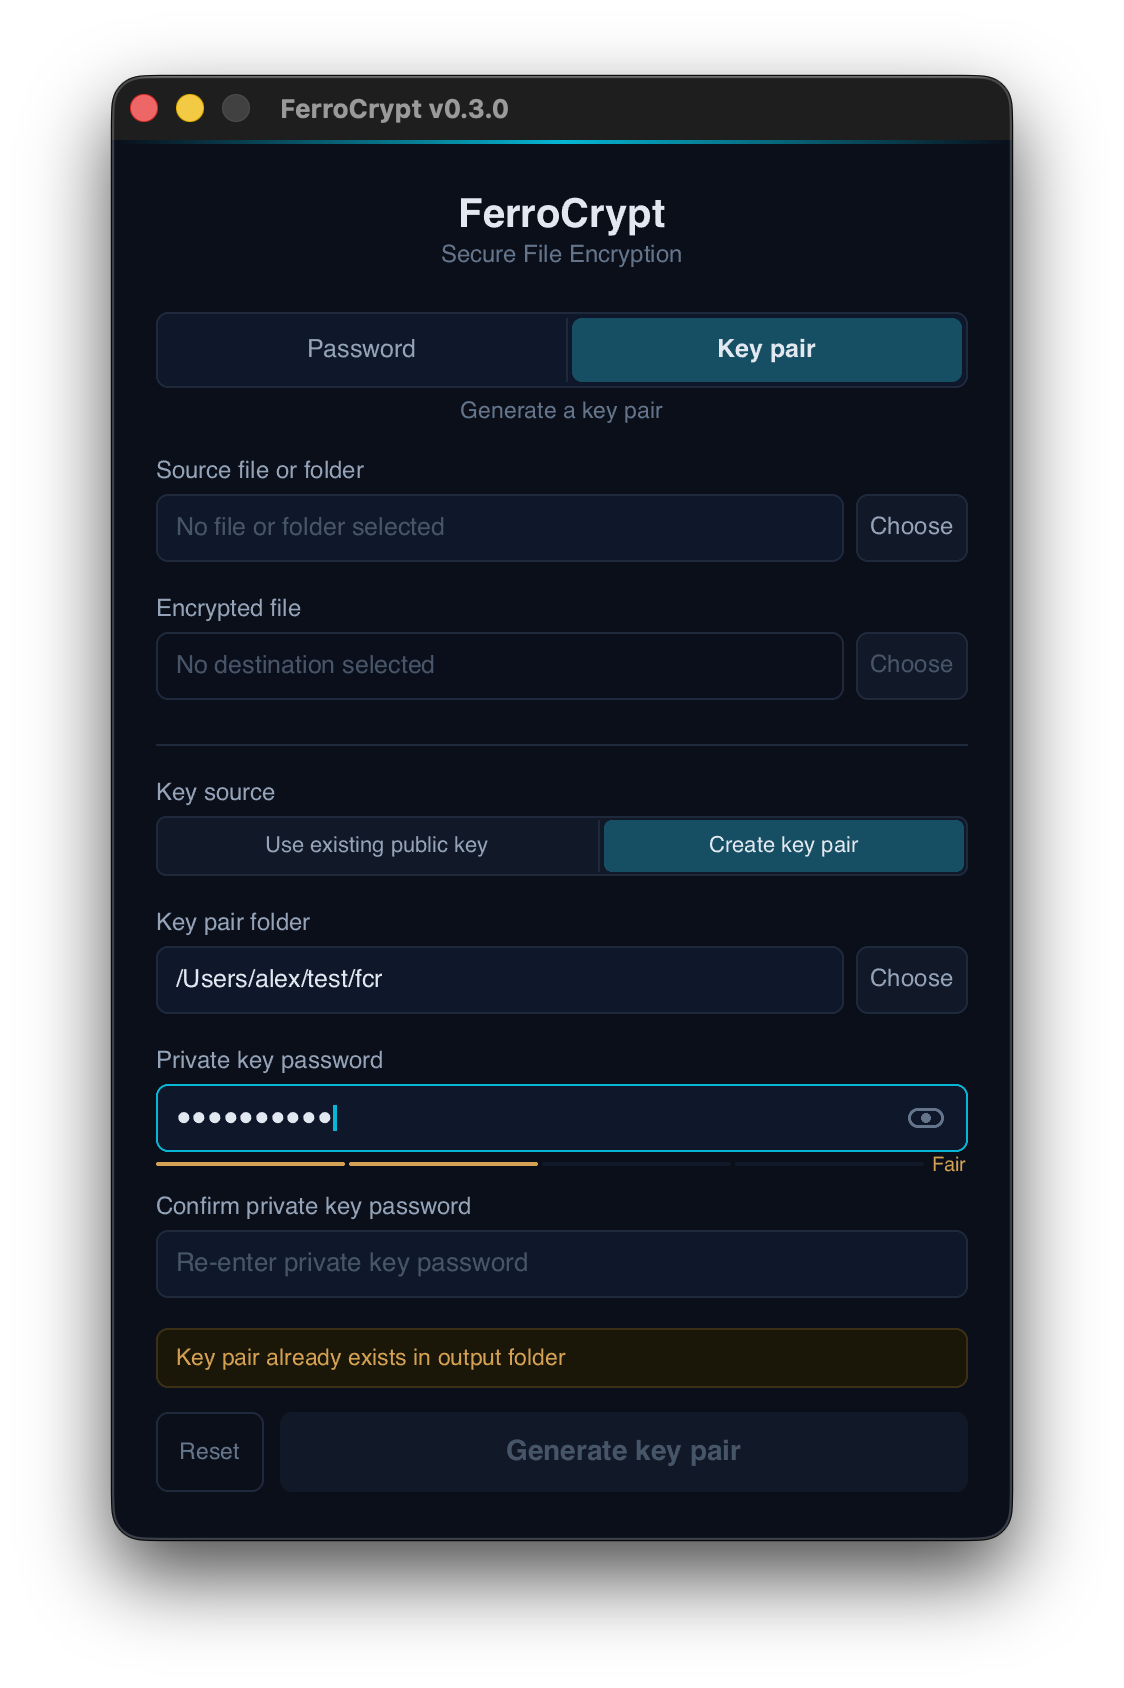
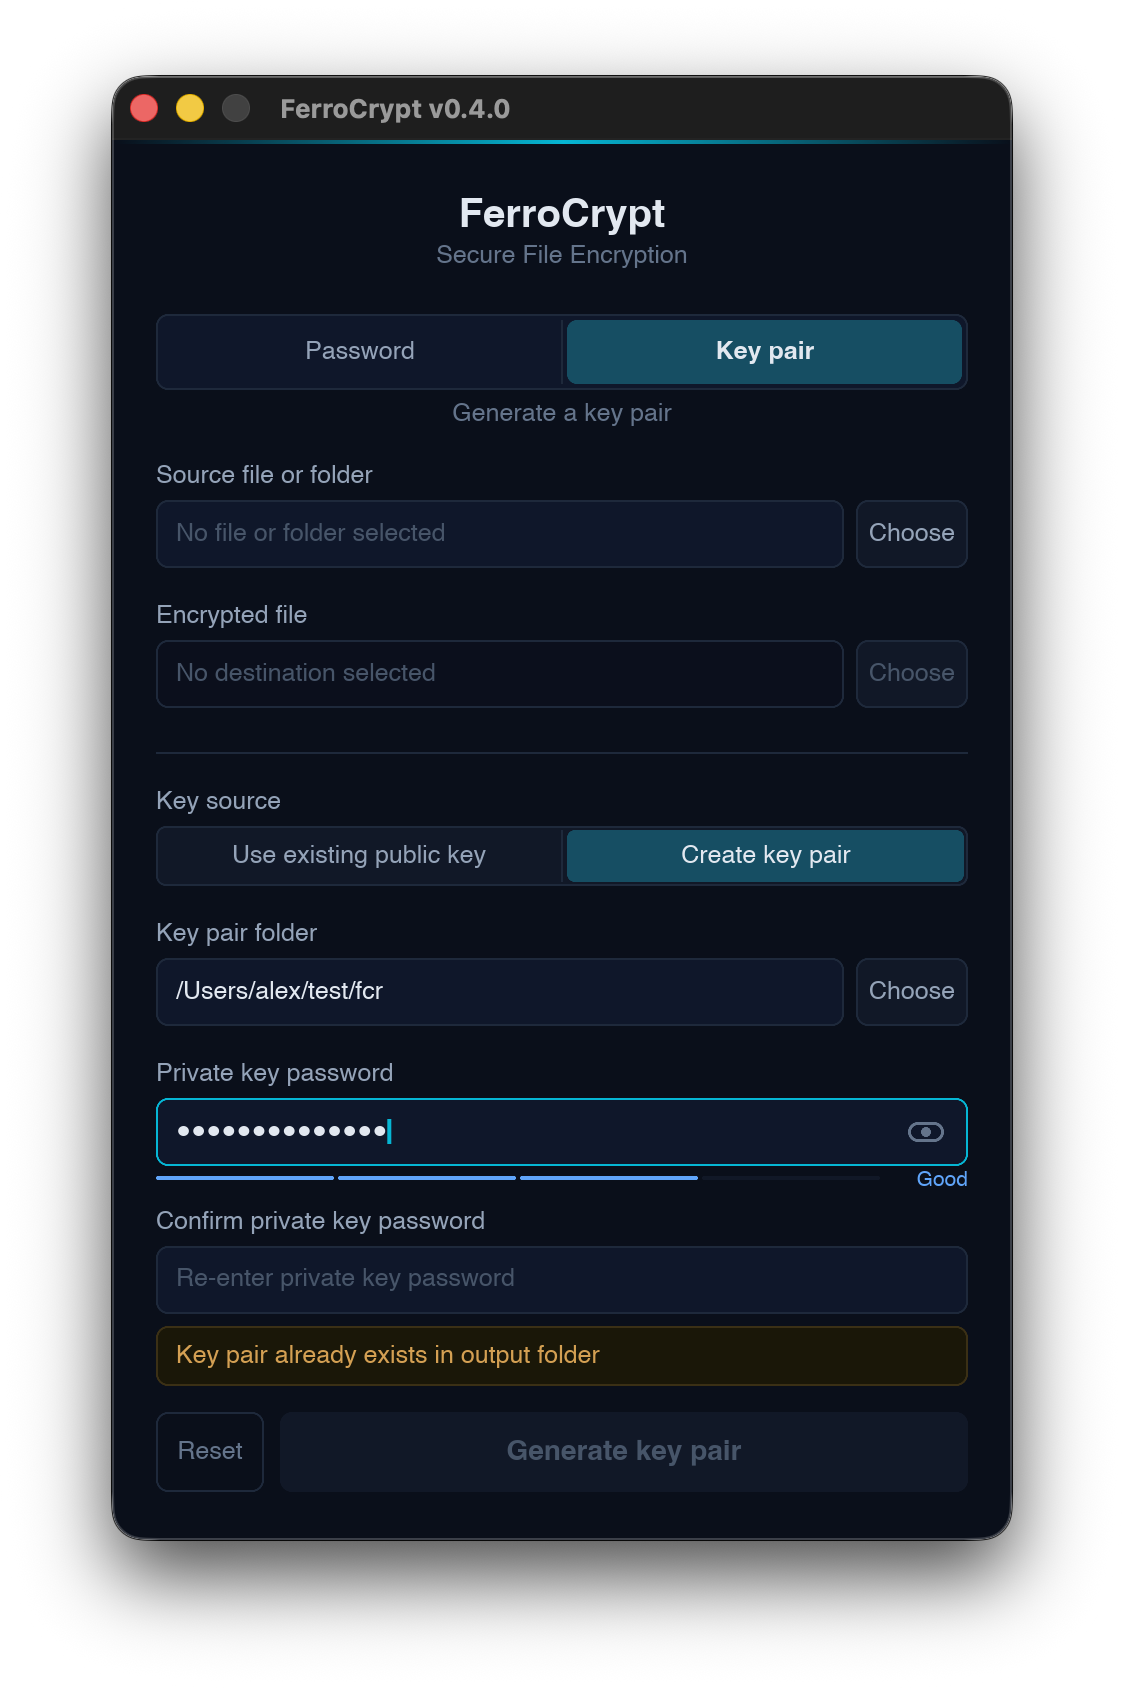
Show a check or a cross for the password match and update the desktop app screenshots

diff --git a/ferrocrypt-desktop/src/main.rs b/ferrocrypt-desktop/src/main.rs
@@ -2403,6 +2403,37 @@ mod tests {
         assert!(bars().is_empty());
     }
 
+    /// Whether the confirmation matches is said by a check or a cross with a
+    /// name, not by colour alone.
+    #[test]
+    fn the_password_match_mark_has_a_name() {
+        use i_slint_backend_testing::AccessibleRole;
+
+        let app = headless_app();
+        app.show().unwrap();
+        let marks = || -> Vec<String> {
+            app.root_element()
+                .query_descendants()
+                .match_accessible_role(AccessibleRole::Image)
+                .find_all()
+                .iter()
+                .filter_map(|mark| mark.accessible_label())
+                .map(|label| label.to_string())
+                .collect()
+        };
+        assert!(marks().is_empty());
+
+        app.set_password("first".into());
+        app.set_password_repeated("firs".into());
+        assert_eq!(marks(), ["Passwords do not match"]);
+
+        app.set_password_repeated("first".into());
+        assert_eq!(marks(), ["Passwords match"]);
+
+        app.set_password_repeated("".into());
+        assert!(marks().is_empty());
+    }
+
     /// A headless platform for layout checks.
     struct Headless(Rc<MinimalSoftwareWindow>);
 

diff --git a/CHANGELOG.md b/CHANGELOG.md
@@ -20,6 +20,7 @@ All notable changes to FerroCrypt are documented in this file.
 - **The desktop app's button for copying a key fingerprint now shows its icon on macOS.** The icon was a character the system font lacks, so it showed as an empty box. The app now draws it.
 - **The desktop app can now encrypt a file that starts like a FerroCrypt file but cannot be decrypted.** It refused to select a damaged or newer encrypted file, a private key, or an ordinary file that happens to begin with the same bytes, although the CLI encrypts any of them. Such a file is now selected for encryption, with a warning that says why it cannot be decrypted; a private key needs none.
 - **The desktop app no longer keeps showing the result of the last operation once the form changes.** An old error stayed on screen after a new output location, key pair folder, or key file was chosen, or a new password was typed.
+- **The desktop app's password confirmation now shows a check mark or a cross, so a match no longer depends on telling green from red.** It was a green or red dot, which people with red-green colour blindness could not tell apart. A screen reader now reads it as "Passwords match" or "Passwords do not match".
 - **The desktop app's controls are now consistent.** The tabs and the key-source buttons are equally wide and no longer shift, the password strength meter keeps its length, the controls an operation locks are all dimmed, and the app's own messages say "password", as its labels do.
 - **Encryption and decryption no longer use a `cap-std` release that can follow a symlink out of the folder it works in.** Its `cap-primitives` releases before 4.0.3 follow a symlink whose target ends in `/` (advisory RUSTSEC-2026-0482) on macOS, on Windows, and on Linux without `openat2`. The `ferrocrypt` crate now requires `cap-std` 4.0.3 or later, and the CLI and desktop app are built with it.
 - **Library error messages now escape control characters, text-direction characters, the line and paragraph separators (U+2028, U+2029), and invisible characters such as the zero-width space wherever they show the output folder.** Three messages a decrypt can return after its output is complete showed the folder unescaped, and the others did not escape the two separators, so a terminal or log viewer could run an escape sequence, reorder the text, or split a message.
